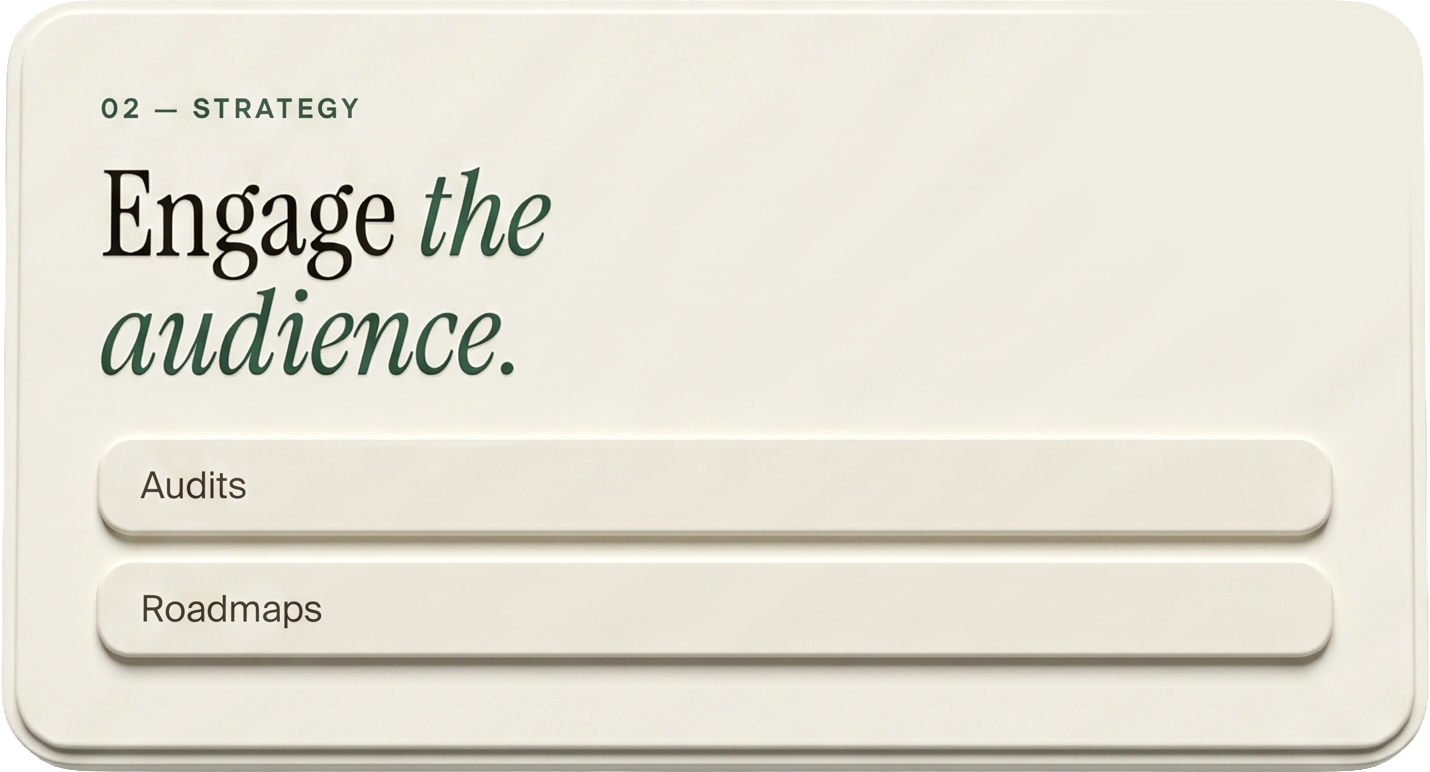
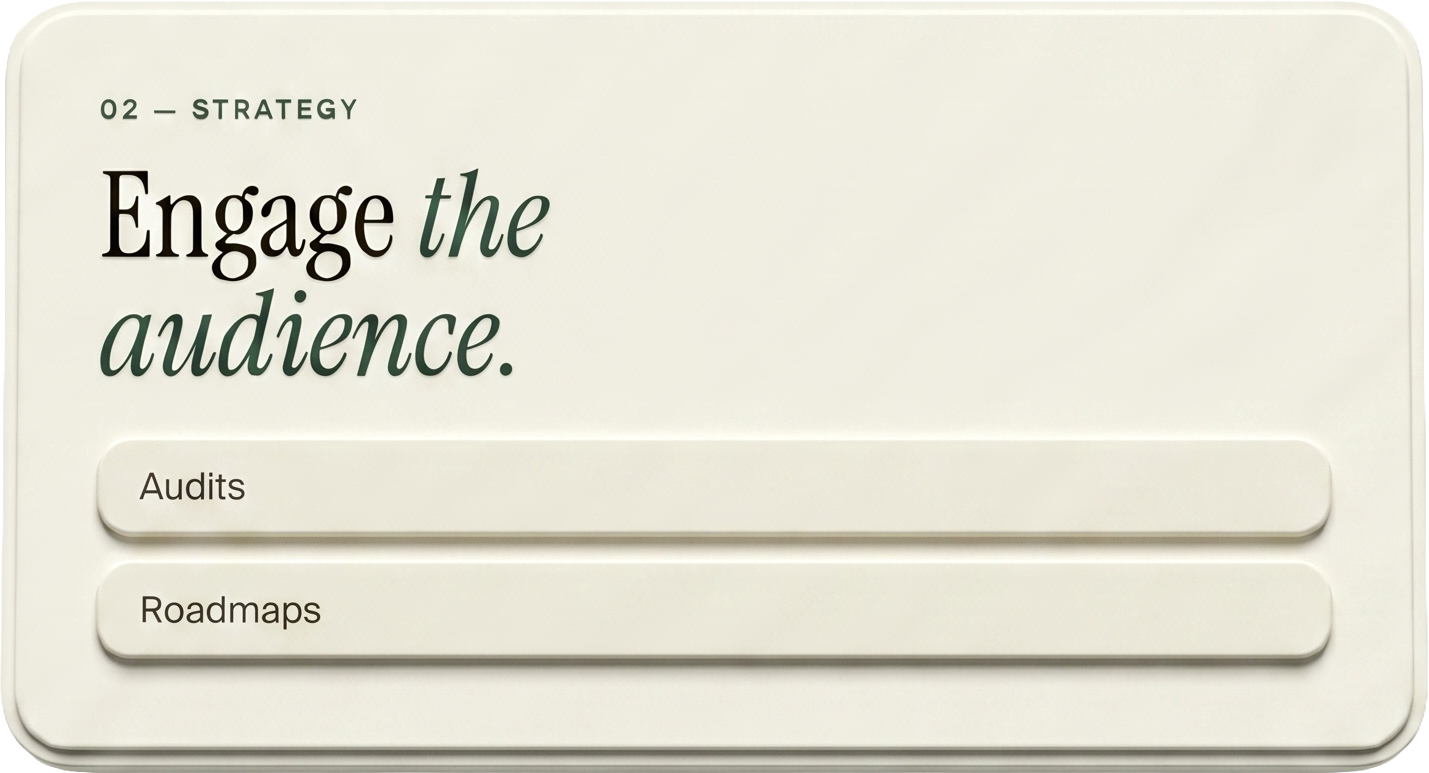
Swap in user-cleaned Engage, Foundational, and Bespoke renders
Corner hit-area fix (clip-path round 32px on .render) remains active.

diff --git a/index.html b/index.html
@@ -238,7 +238,7 @@
                 <article class="reveal reveal-card image-card md:col-span-5 group" style="transition-delay:80ms" aria-label="Foundational automations">
                     <div class="h-full flex items-center justify-center">
                         <a href="#contact" class="render block w-full max-w-[480px] mx-auto">
-                            <img src="foundational-card.png?v=2" alt="Foundational automations" class="w-full h-auto select-none" draggable="false">
+                            <img src="foundational-card.png?v=3" alt="Foundational automations" class="w-full h-auto select-none" draggable="false">
                         </a>
                     </div>
                 </article>
@@ -247,7 +247,7 @@
                 <article class="reveal reveal-card image-card md:col-span-7 group" style="transition-delay:160ms" aria-label="Engage the audience">
                     <div class="h-full flex items-center justify-center">
                         <a href="#contact" class="render block w-full max-w-[720px] mx-auto">
-                            <img src="engage-card.png?v=2" alt="Engage the audience" class="w-full h-auto select-none" draggable="false">
+                            <img src="engage-card.png?v=3" alt="Engage the audience" class="w-full h-auto select-none" draggable="false">
                         </a>
                     </div>
                 </article>
@@ -255,7 +255,7 @@
                 <article class="reveal reveal-card image-card md:col-span-5 group" style="transition-delay:240ms" aria-label="Bespoke templates">
                     <div class="h-full flex items-center justify-center">
                         <a href="#contact" class="render block w-full max-w-[640px] mx-auto">
-                            <img src="bespoke-card.png?v=3" alt="Bespoke templates" class="w-full h-auto select-none" draggable="false">
+                            <img src="bespoke-card.png?v=4" alt="Bespoke templates" class="w-full h-auto select-none" draggable="false">
                         </a>
                     </div>
                 </article>